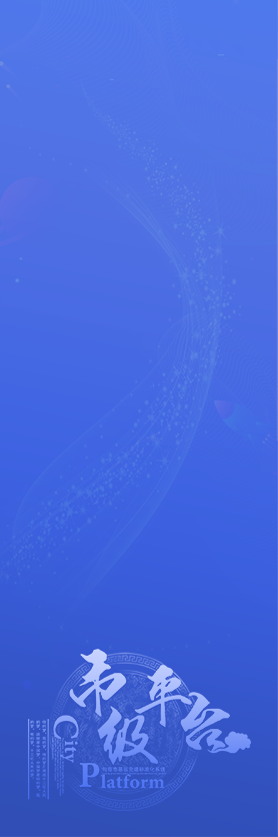
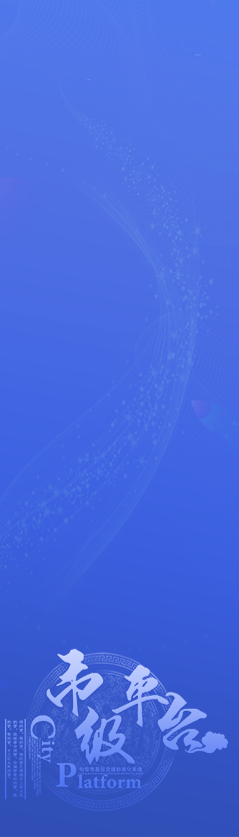
菜单背景

diff --git a/src/layout/components/SideBar.vue b/src/layout/components/SideBar.vue
@@ -65,12 +65,13 @@
             changeMenuBg(){
                 let user = JSON.parse(sessionStorage.getItem("userInfo"));
                 if(user.roleCode === 'CITY_LEADER'){
-                    document.getElementsByClassName("el-menu-personal")[0].style.background = "url('/static/img/menushi.png')";
+                    document.getElementsByClassName("el-menu-personal")[0].style.backgroundImage = "url('/static/img/shi.png')";
                 }else if(user.roleCode === 'TOWN_REVIEWER') {
-                    document.getElementsByClassName("el-menu-personal")[0].style.background="url('/static/img/menuzhen.png')";
+                    document.getElementsByClassName("el-menu-personal")[0].style.backgroundImage="url('/static/img/zhen.png')";
                 }else{
-                    document.getElementsByClassName("el-menu-personal")[0].style.backgroundImage="url('/static/img/menucun.png')";
+                    document.getElementsByClassName("el-menu-personal")[0].style.backgroundImage="url('/static/img/cun.png')";
                 }
+                document.getElementsByClassName("el-menu-personal")[0].style.backgroundSize= `100% ${document.body.clientHeight - 70}px`
             }
         /*    handleCheckNumber(){
                 this.$http("get",`identity/parActivityObject/checkNumber/organizationId${JSON.parse(sessionStorage.getItem("userInfo")).districtId}`,false).then( data=>{
@@ -80,6 +81,9 @@
         },
         mounted(){
             this.changeMenuBg();
+            window.onresize = () => {
+                document.getElementsByClassName("el-menu-personal")[0].style.backgroundSize= `100% ${document.body.clientHeight - 70}px`
+            }
         },
         created() {
             this.$http("get",`identity/parActivityObject/checkNumber/organizationId${JSON.parse(sessionStorage.getItem("userInfo")).districtId}`,false).then( data=>{
@@ -98,8 +102,7 @@
     .el-menu-personal {
         height: 100%;
         text-align: left;
-        background: url("/static/img/menucun.png");
-        background-size: 100% 100% !important;
+        background-repeat: no-repeat;
     }
     .el-menu-personal  .el-badge__content{
         background-color: #e6a23c;

diff --git a/src/layout/components/TopBar.vue b/src/layout/components/TopBar.vue
@@ -305,7 +305,7 @@
                     })
                     return
                 }
-                this.$http('POST', `/identity/sysUser/list`, {userName:userName,password:md5.hex_md5(this.originalPassword)}).then(data01=>{
+                this.$http('POST', `/identity/sysUser/list`, {userName:userName,password:md5.hex_md5(this.originalPassword)}, false).then(data01=>{
                         if(data01.length == 0){
                             this.$message({
                                 message:'原密码输入错误',
